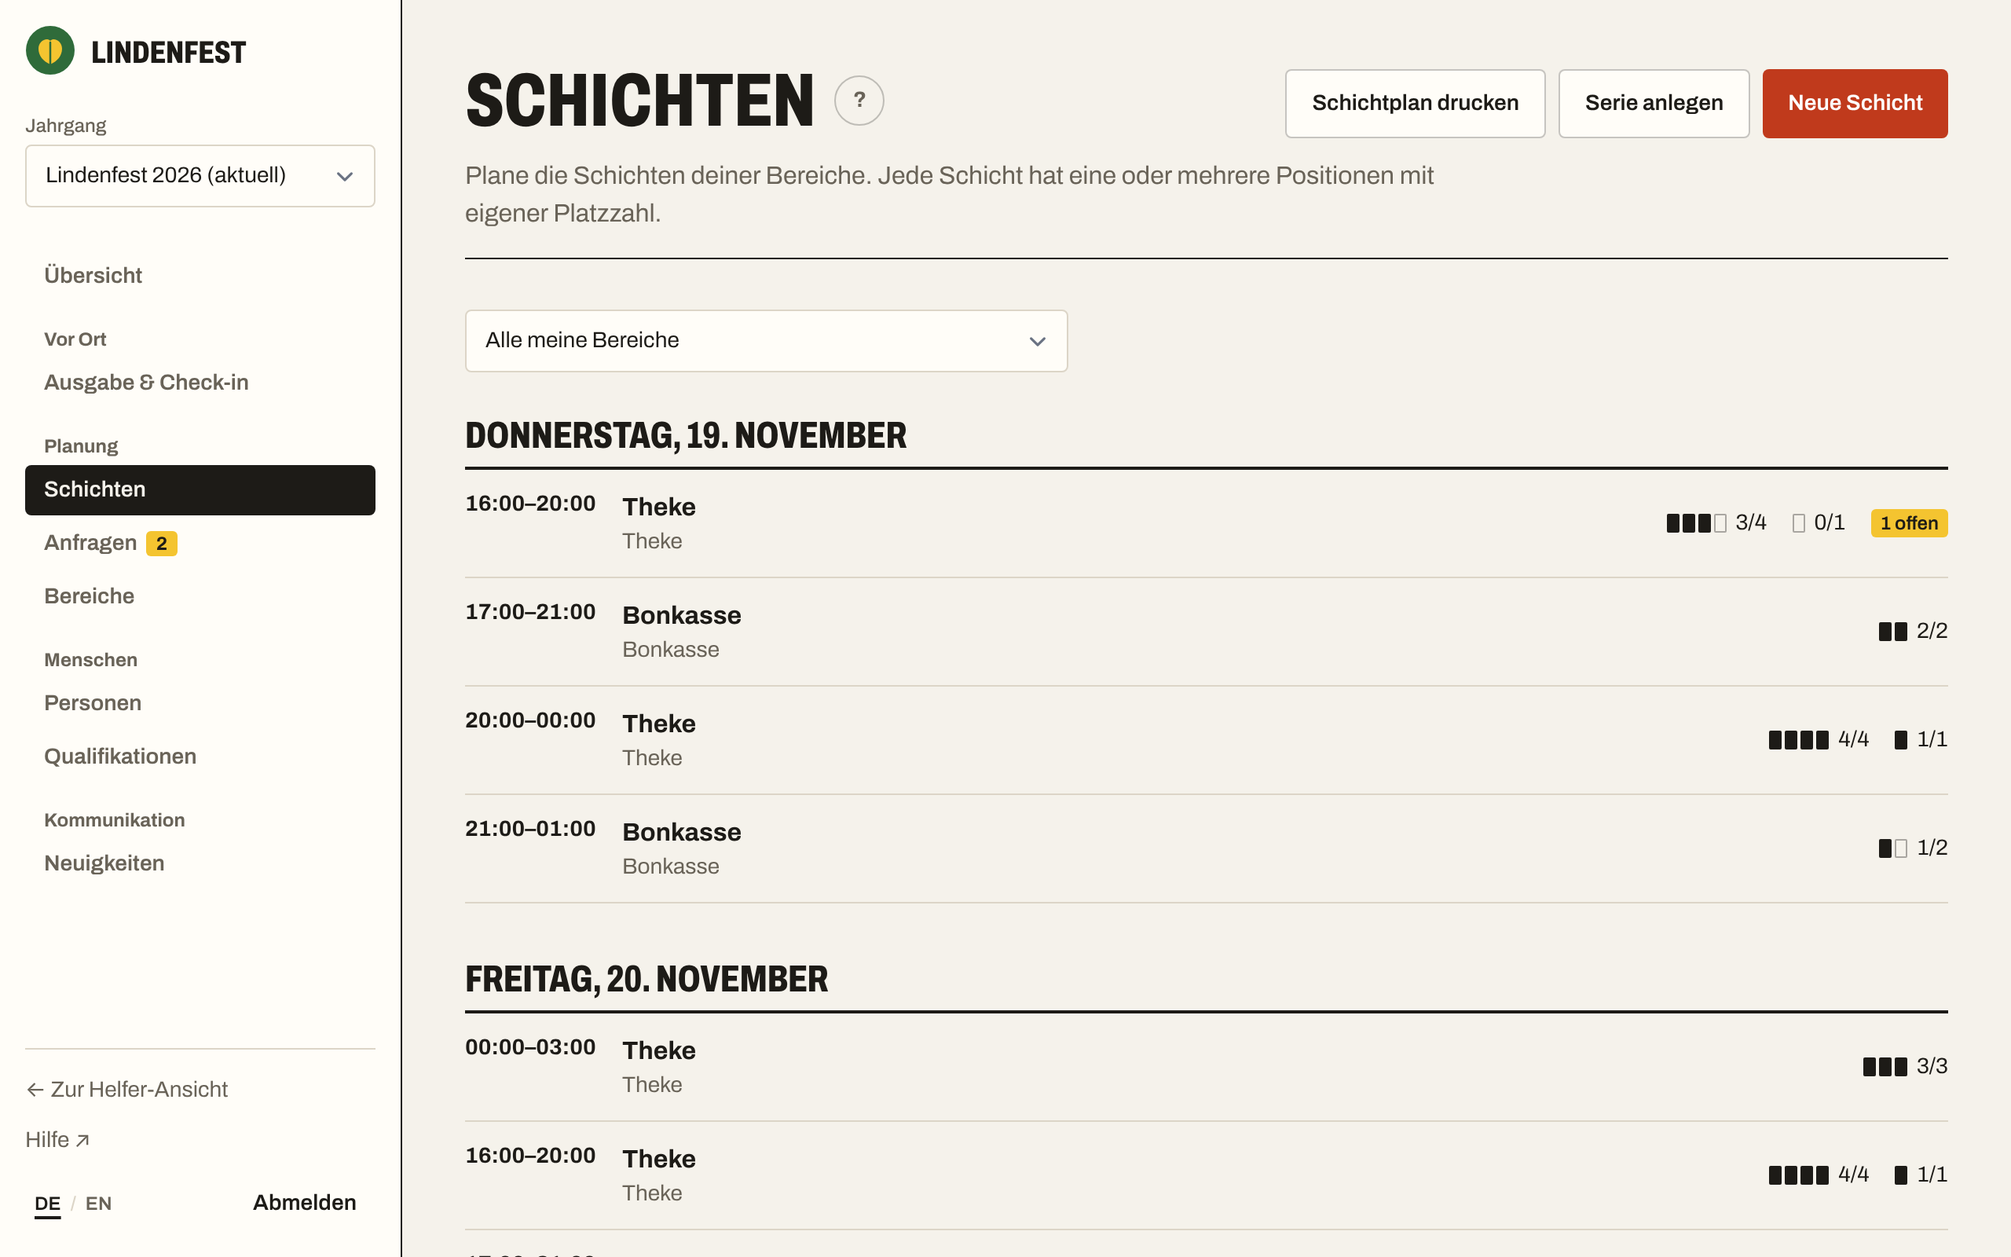
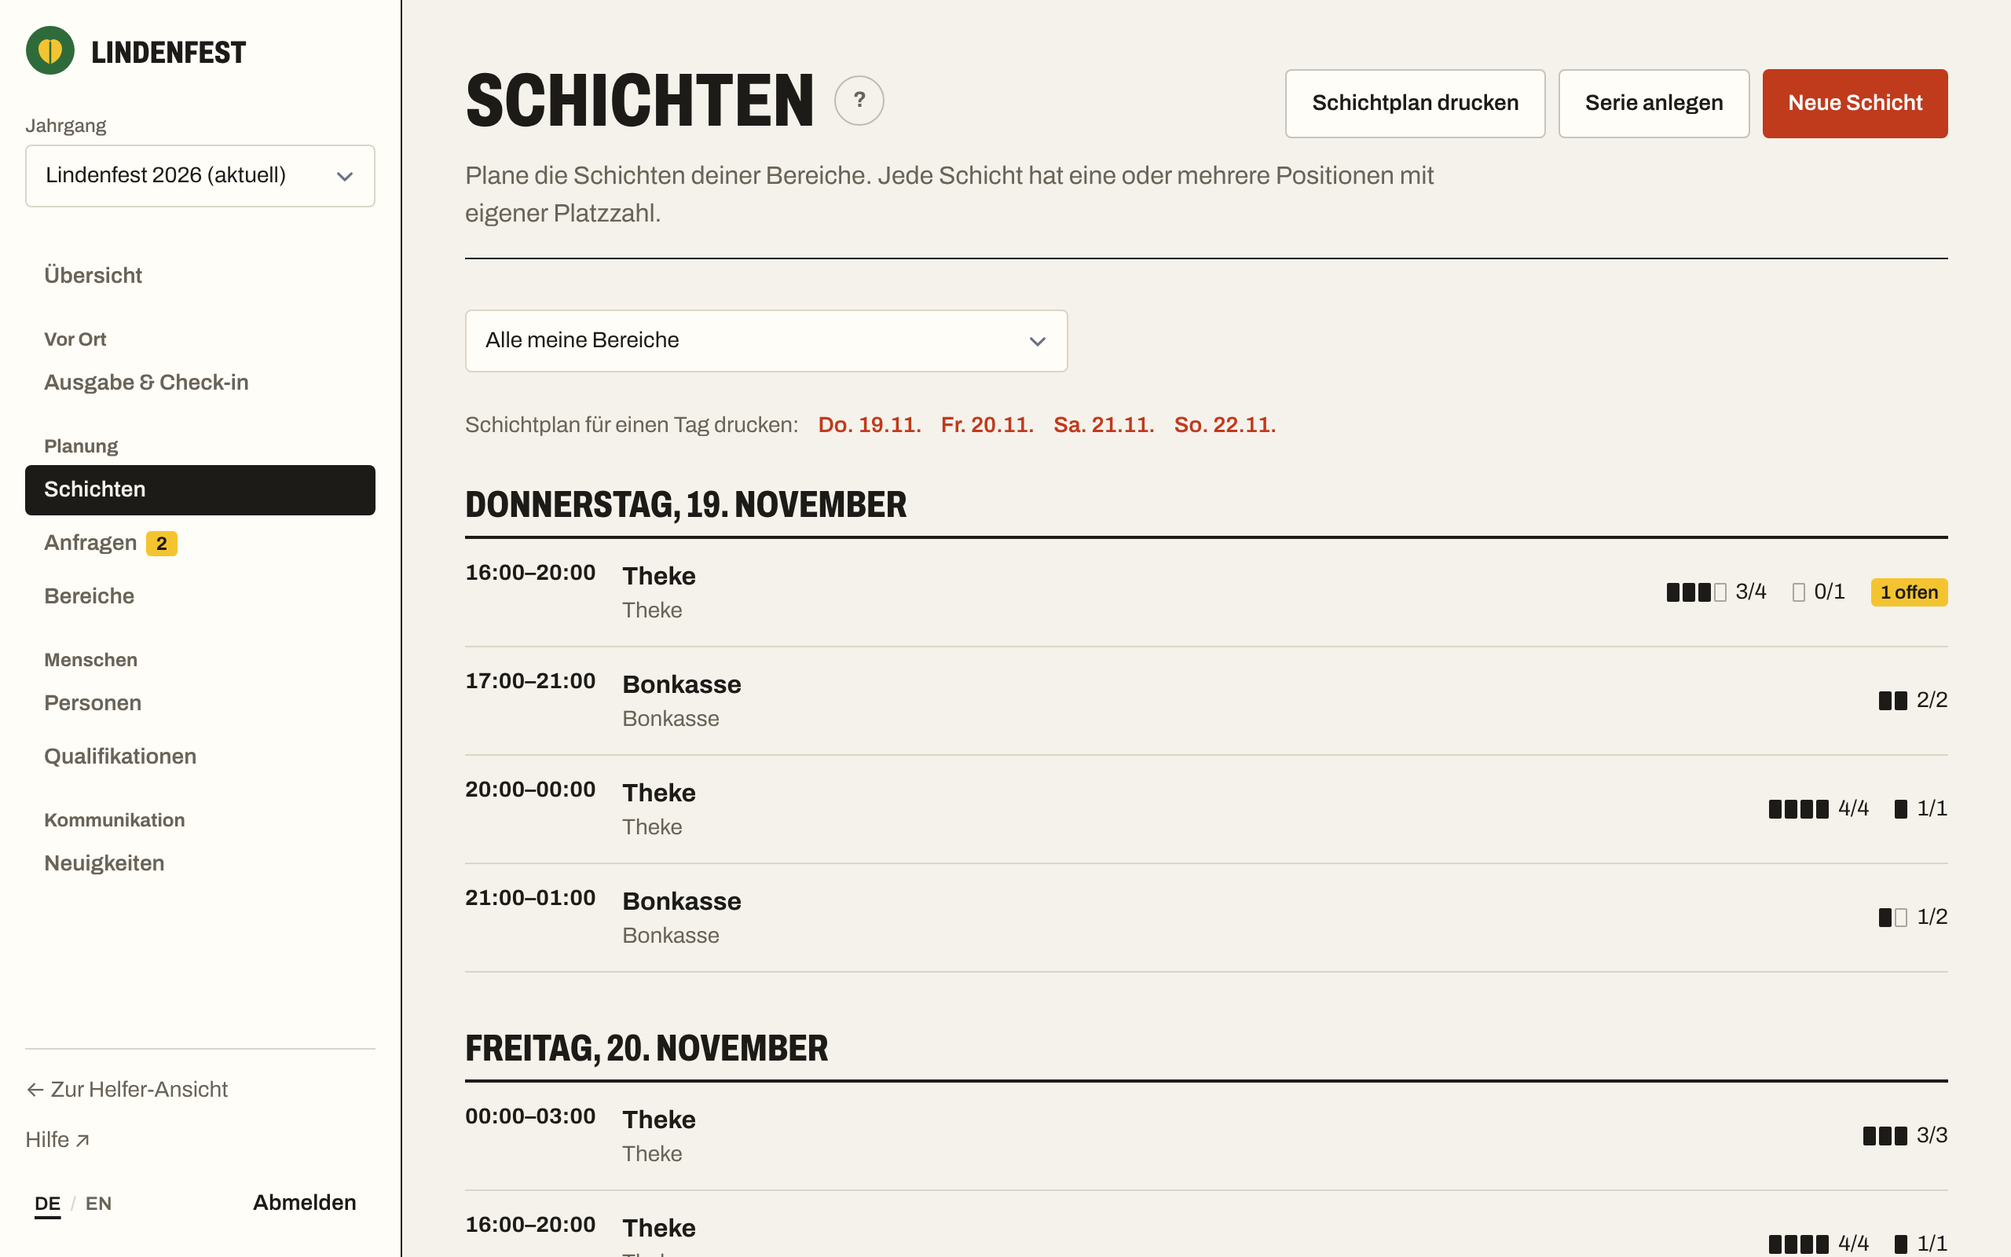
Screenshots in the help pages
Regenerated with the fixed app and embedded next to the "At a glance" box of the
pages they illustrate; phone shots stay phone-sized. Quoted UI messages in the
lead pages show example numbers instead of raw placeholders.

Claude-Session: https://claude.ai/code/session_011e26nZjEAptTtwDUy64EUt

diff --git a/docs/src/styles/custom.css b/docs/src/styles/custom.css
@@ -48,3 +48,15 @@
 	cursor: pointer;
 	font-weight: 600;
 }
+
+/* Phone screenshots stay phone-sized instead of filling the whole column. */
+.sl-markdown-content img[alt][src*='helper-'] {
+	max-width: min(100%, 320px);
+	border: 1px solid var(--sl-color-gray-5);
+	border-radius: 12px;
+}
+.sl-markdown-content img[alt][src*='lead-'],
+.sl-markdown-content img[alt][src*='admin-'] {
+	border: 1px solid var(--sl-color-gray-5);
+	border-radius: 6px;
+}

diff --git a/docs/src/content/docs/en/leads/dashboard.md b/docs/src/content/docs/en/leads/dashboard.md
@@ -14,6 +14,8 @@ description: What the admin overview shows – staffing, heatmap, understaffed s
 
 :::
 
+![Overview of an area lead](../../../../assets/screenshots/en/lead-dashboard.png)
+
 The numbers always refer to the edition selected at the top, and only to the areas in which your role
 has _View staffing dashboard_ or shift permissions (_Create and edit shifts_, _Add and remove
 volunteers, approve requests_ or _Confirm attendance (check-in)_). Without one of these permissions
@@ -26,8 +28,8 @@ may not open the shifts themselves.
 
 ### Filled
 
-The big percentage: places taken divided by all places of all shifts in your areas, with “{booked} of
-{capacity} places” below. Bookings and places reserved for groups count; open requests do not.
+The big percentage: places taken divided by all places of all shifts in your areas, with “45 of
+54 places” below. Bookings and places reserved for groups count; open requests do not.
 
 ### Helpers signed up
 
@@ -37,15 +39,15 @@ How many different people are signed up for your shifts, and below it in how man
 
 Only appears when something is waiting for you:
 
-- _{number} requests_ – booking requests, handovers and swaps. The link leads to
+- _2 requests_ – booking requests, handovers and swaps. The link leads to
   [_Requests_](/wichtel/en/leads/requests/).
-- _{number} proofs_ – qualification proofs to review, only if you may review them. The link leads to
+- _2 proofs_ – qualification proofs to review, only if you may review them. The link leads to
   [_Qualifications_](/wichtel/en/leads/qualifications/).
 
 ### Today
 
-All shifts of your areas that start today, with the attendance so far: “{x} of {y} here” and, if
-any, “{n} no-show”. A click opens the shift, where you tick people off (see
+All shifts of your areas that start today, with the attendance so far: “3 of 4 here” and, if
+any, “1 no-show”. A click opens the shift, where you tick people off (see
 [Staffing](/wichtel/en/leads/staffing/)).
 
 ### Staffing by area and day
@@ -60,7 +62,7 @@ all shifts of that area starting on that day.
 ### Understaffed next
 
 The next ten shifts that have not started yet and have free places, soonest first – with day, time,
-area and “{n} free”. If an [urgent call](/wichtel/en/leads/urgent/) is running for a position, it
+area and “2 free”. If an [urgent call](/wichtel/en/leads/urgent/) is running for a position, it
 shows _Urgent_. If all upcoming shifts are full, it says “All upcoming shifts are full.”
 
 ## Common questions

diff --git a/docs/src/content/docs/leads/dashboard.md b/docs/src/content/docs/leads/dashboard.md
@@ -14,6 +14,8 @@ description: Was die Übersicht der Verwaltung zeigt – Besetzung, Heatmap, unt
 
 :::
 
+![Übersicht einer Bereichsleitung](../../../assets/screenshots/de/lead-dashboard.png)
+
 Die Zahlen beziehen sich immer auf den Jahrgang, der oben gewählt ist, und nur auf die Bereiche, in
 denen deine Rolle _Besetzungs-Dashboard sehen_ oder Schichtrechte hat (_Schichten anlegen und
 bearbeiten_, _Helfende ein- und austragen, Anfragen bestätigen_ oder _Anwesenheit bestätigen
@@ -27,7 +29,7 @@ du die Schichten selbst nicht öffnen darfst.
 ### Besetzt
 
 Die große Prozentzahl: vergebene Plätze geteilt durch alle Plätze aller Schichten in deinen
-Bereichen, darunter „{gebucht} von {Plätzen} Plätzen“. Gezählt werden Buchungen und für Gruppen
+Bereichen, darunter „45 von 54 Plätzen“. Gezählt werden Buchungen und für Gruppen
 reservierte Plätze, keine offenen Anfragen.
 
 ### Helfende eingetragen
@@ -39,15 +41,15 @@ Schichten.
 
 Erscheint nur, wenn etwas auf dich wartet:
 
-- _{Anzahl} Anfragen_ – Buchungsanfragen, Übergaben und Tausch. Der Link führt zu
+- _2 Anfragen_ – Buchungsanfragen, Übergaben und Tausch. Der Link führt zu
   [_Anfragen_](/wichtel/leads/requests/).
-- _{Anzahl} Nachweise_ – Qualifikationsnachweise zum Prüfen, nur wenn du sie prüfen darfst. Der Link
+- _2 Nachweise_ – Qualifikationsnachweise zum Prüfen, nur wenn du sie prüfen darfst. Der Link
   führt zu [_Qualifikationen_](/wichtel/leads/qualifications/).
 
 ### Heute
 
-Alle Schichten deiner Bereiche, die heute beginnen, mit dem Stand der Anwesenheit: „{x} von {y} da“
-und gegebenenfalls „{n} nicht erschienen“. Ein Klick öffnet die Schicht, dort hakst du ab (siehe
+Alle Schichten deiner Bereiche, die heute beginnen, mit dem Stand der Anwesenheit: „3 von 4 da“
+und gegebenenfalls „1 nicht erschienen“. Ein Klick öffnet die Schicht, dort hakst du ab (siehe
 [Besetzung](/wichtel/leads/staffing/)).
 
 ### Besetzung nach Bereich und Tag
@@ -62,7 +64,7 @@ Plätze“ für alle Schichten dieses Bereichs, die an dem Tag beginnen.
 ### Als Nächstes unterbesetzt
 
 Die nächsten zehn Schichten, die noch nicht begonnen haben und freie Plätze haben, die früheste
-zuerst – mit Tag, Uhrzeit, Bereich und „{n} frei“. Läuft für eine Position ein
+zuerst – mit Tag, Uhrzeit, Bereich und „2 frei“. Läuft für eine Position ein
 [Dringend-Aufruf](/wichtel/leads/urgent/), steht _Dringend_ dabei. Sind alle kommenden Schichten
 voll, steht dort „Alle kommenden Schichten sind voll.“
 

diff --git a/docs/src/content/docs/leads/news.md b/docs/src/content/docs/leads/news.md
@@ -14,6 +14,8 @@ description: Beiträge für deinen Bereich, eine Schicht oder die Crew schreiben
 
 :::
 
+![Neuigkeit bearbeiten](../../../assets/screenshots/de/lead-news-editor.png)
+
 Neuigkeiten erscheinen im Newsfeed der Helfenden (_News_ in der App, die neuesten auch auf der
 Startseite) – aber nur bei denen, für die sie bestimmt sind.
 
@@ -43,8 +45,8 @@ später eine Schicht im Bereich bucht, sieht einen Bereichs-Beitrag dann auch.
    und bekommt dann diese Fassung, sonst die deutsche.
 5. Optional _Oben anheften_ und _Angeheftet bis einschließlich_ (siehe unten).
 6. Optional _Auch per E-Mail senden_.
-7. Tippe auf _Vorschau_. Du siehst „So sehen es die Helfenden“ und „Erreicht {Anzahl} Personen“.
-8. Passt alles, tippe auf _Veröffentlichen_ und bestätige („Beitrag veröffentlichen und an {Anzahl}
+7. Tippe auf _Vorschau_. Du siehst „So sehen es die Helfenden“ und „Erreicht 37 Personen“.
+8. Passt alles, tippe auf _Veröffentlichen_ und bestätige („Beitrag veröffentlichen und an 37
    Personen mailen?“, wenn die E-Mail mitgeht).
 
 ## Per E-Mail
@@ -52,7 +54,7 @@ später eine Schicht im Bereich bucht, sieht einen Bereichs-Beitrag dann auch.
 Mit _Auch per E-Mail senden_ bekommen alle, die der Beitrag **im Moment des Veröffentlichens**
 betrifft, ihn zusätzlich als E-Mail – in ihrer Sprache, mit einem Link zum Beitrag. Wer später dazukommt,
 sieht ihn nur im Newsfeed. Konten, deren E-Mail-Adresse noch nicht bestätigt ist, bekommen keine
-Mail (und zählen bei der Anzahl nicht mit). In der Liste steht danach „per E-Mail an {Anzahl}“.
+Mail (und zählen bei der Anzahl nicht mit). In der Liste steht danach „per E-Mail an 37“.
 
 ## Anheften
 

diff --git a/docs/src/content/docs/leads/series.md b/docs/src/content/docs/leads/series.md
@@ -9,10 +9,12 @@ description: Viele gleichartige Schichten auf einmal anlegen – Tage mal Zeitfe
   _Serie anlegen_.
 - Für **jeden gewählten Tag und jedes Zeitfenster** entsteht eine eigene Schicht mit denselben
   Angaben und Positionen.
-- **Vor dem Anlegen** zeigt die Seite: „Es werden {Anzahl} Schichten angelegt.“
+- **Vor dem Anlegen** zeigt die Seite: „Es werden 3 Schichten angelegt.“
 - **Danach** ist jede Schicht eigenständig: Du bearbeitest oder löschst sie einzeln.
 
 :::
+
+![Serie anlegen](../../../assets/screenshots/de/lead-series.png)
 
 ## Schritt für Schritt
 
@@ -24,12 +26,12 @@ description: Viele gleichartige Schichten auf einmal anlegen – Tage mal Zeitfe
    - _Zeitfenster_ – Beginn und Ende, anfangs 10:00–14:00. Mit _+ Zeitfenster hinzufügen_ kommt ein
      weiteres dazu (es beginnt, wo das letzte endet). Liegt das Ende vor dem Beginn, endet die
      Schicht am Folgetag, z. B. 22:00–02:00.
-4. Lies die Zahl darunter: „Es werden {Anzahl} Schichten angelegt.“ Sie ändert sich sofort, wenn du
+4. Lies die Zahl darunter: „Es werden 3 Schichten angelegt.“ Sie ändert sich sofort, wenn du
    Tage oder Zeitfenster änderst.
 5. Leg die [Positionen](/wichtel/leads/positions/) fest – sie gelten für jede Schicht der Serie.
 6. Fülle Ort, Ansprechperson, Beschreibung, _Sichtbar für_ und _Frist zum Austragen (Stunden)_ aus
    wie bei einer [einzelnen Schicht](/wichtel/leads/shifts/).
-7. Tippe auf _Serie anlegen_. Du landest in der Liste _Schichten_ mit der Meldung „{Anzahl} Schichten
+7. Tippe auf _Serie anlegen_. Du landest in der Liste _Schichten_ mit der Meldung „3 Schichten
    angelegt.“
 
 ### Beispiel

diff --git a/docs/src/content/docs/leads/urgent.md b/docs/src/content/docs/leads/urgent.md
@@ -15,6 +15,8 @@ description: Kurzfristig Leute finden – wer die E-Mail bekommt, wie Bonuspunkt
 
 :::
 
+![Schicht mit laufendem Dringend-Aufruf](../../../assets/screenshots/de/admin-urgent.png)
+
 ## Schritt für Schritt
 
 1. Öffne die Schicht (z. B. aus _Als Nächstes unterbesetzt_ auf der [Übersicht](/wichtel/leads/dashboard/)).
@@ -23,8 +25,8 @@ description: Kurzfristig Leute finden – wer die E-Mail bekommt, wie Bonuspunkt
 3. Optional:
    - _Bonuspunkte_ (0 bis 100) – „Für alle, die sich jetzt eintragen. 0 = kein Bonus.“
    - _Kurze Nachricht (optional)_ – bis 300 Zeichen, steht in der E-Mail.
-4. Tippe auf _Aufruf senden_. Du siehst „Aufruf an {Anzahl} Personen gesendet.“
-5. Bei der Position steht jetzt „Dringend seit {Uhrzeit}“ (mit „+{Bonus}“, falls du Bonuspunkte
+4. Tippe auf _Aufruf senden_. Du siehst „Aufruf an 23 Personen gesendet.“
+5. Bei der Position steht jetzt „Dringend seit 14:05“ (mit „+2“, falls du Bonuspunkte
    vergeben hast).
 
 ## Wer die E-Mail bekommt
@@ -42,7 +44,7 @@ Bonus und enthält einen Direktlink zur Schicht. Sie geht in der Sprache der jew
 ## Was Helfende sehen
 
 Solange der Aufruf läuft und Plätze frei sind, ist die Position in der Schichtliste als _Dringend_
-markiert, mit „+{Bonus} Bonuspunkte“. Auf ihrer Startseite erscheint die Schicht unter _Dringend
+markiert, mit „+2 Bonuspunkte“. Auf ihrer Startseite erscheint die Schicht unter _Dringend
 gesucht_. Für eine Position mit laufendem Aufruf können sich alle eintragen, auch wenn ihre
 Buchungswelle noch nicht offen ist.
 

diff --git a/docs/src/content/docs/en/leads/series.md b/docs/src/content/docs/en/leads/series.md
@@ -9,10 +9,12 @@ description: Create many similar shifts at once – days times time slots – an
   _Create series_.
 - **Every selected day and every time slot** becomes a shift of its own with the same details and
   positions.
-- **Before creating**, the page shows: “{number} shifts will be created.”
+- **Before creating**, the page shows: “3 shifts will be created.”
 - **Afterwards** every shift stands on its own: you edit or delete them one by one.
 
 :::
+
+![Creating a series](../../../../assets/screenshots/en/lead-series.png)
 
 ## Step by step
 
@@ -24,12 +26,12 @@ description: Create many similar shifts at once – days times time slots – an
    - _Time slots_ – start and end, initially 10:00–14:00. _+ Add time slot_ adds another one (it
      starts where the last one ends). If the end is before the start, the shift ends the next day,
      e.g. 22:00–02:00.
-4. Read the number below: “{number} shifts will be created.” It changes immediately when you change
+4. Read the number below: “3 shifts will be created.” It changes immediately when you change
    days or time slots.
 5. Set the [positions](/wichtel/en/leads/positions/) – they apply to every shift of the series.
 6. Fill in location, contact, description, _Visible to_ and _Cancellation deadline (hours)_ as for a
    [single shift](/wichtel/en/leads/shifts/).
-7. Tap _Create series_. You land in the _Shifts_ list with the message “{number} shifts created.”
+7. Tap _Create series_. You land in the _Shifts_ list with the message “3 shifts created.”
 
 ### Example
 

diff --git a/docs/src/content/docs/en/leads/news.md b/docs/src/content/docs/en/leads/news.md
@@ -13,6 +13,8 @@ description: Write posts for your area, a shift or the crew, send them by e-mail
 
 :::
 
+![Editing a news post](../../../../assets/screenshots/en/lead-news-editor.png)
+
 News appears in the volunteers' news feed (_News_ in the app, the latest also on the home page) – but
 only for the people it is meant for.
 
@@ -41,8 +43,8 @@ in the area later also sees an area post then.
    and receive this version, everyone else the German one.
 5. Optionally _Pin to the top_ and _Pinned up to and including_ (see below).
 6. Optionally _Also send by e-mail_.
-7. Tap _Preview_. You see “What volunteers will see” and “Reaches {number} people”.
-8. If everything is fine, tap _Publish_ and confirm (“Publish this post and e-mail it to {number}
+7. Tap _Preview_. You see “What volunteers will see” and “Reaches 37 people”.
+8. If everything is fine, tap _Publish_ and confirm (“Publish this post and e-mail it to 37
    people?” if the e-mail goes along).
 
 ## By e-mail
@@ -50,7 +52,7 @@ in the area later also sees an area post then.
 With _Also send by e-mail_, everyone the post concerns **at the moment of publishing** also gets it as
 an e-mail – in their language, with a link to the post. Anyone who joins later only sees it in the
 news feed. Accounts whose e-mail address is not confirmed yet get no e-mail (and are not counted).
-Afterwards the list shows “e-mailed to {number}”.
+Afterwards the list shows “e-mailed to 37”.
 
 ## Pinning
 

diff --git a/docs/src/content/docs/en/leads/urgent.md b/docs/src/content/docs/en/leads/urgent.md
@@ -14,6 +14,8 @@ description: Find people at short notice – who gets the e-mail, how bonus poin
 
 :::
 
+![Shift with a running urgent call](../../../../assets/screenshots/en/admin-urgent.png)
+
 ## Step by step
 
 1. Open the shift (e.g. from _Understaffed next_ on the [overview](/wichtel/en/leads/dashboard/)).
@@ -22,8 +24,8 @@ description: Find people at short notice – who gets the e-mail, how bonus poin
 3. Optionally:
    - _Bonus points_ (0 to 100) – “For everyone who signs up now. 0 = no bonus.”
    - _Short message (optional)_ – up to 300 characters, included in the e-mail.
-4. Tap _Send call_. You see “Call sent to {number} people.”
-5. The position now shows “Urgent since {time}” (with “+{bonus}” if you gave bonus points).
+4. Tap _Send call_. You see “Call sent to 23 people.”
+5. The position now shows “Urgent since 14:05” (with “+2” if you gave bonus points).
 
 ## Who gets the e-mail
 
@@ -40,7 +42,7 @@ the bonus, and contains a direct link to the shift. It goes out in each person's
 ## What volunteers see
 
 While the call is running and places are free, the position is marked _Urgent_ in the shift list,
-with “+{bonus} bonus points”. On their home page the shift appears under _Urgently needed_. Everyone
+with “+2 bonus points”. On their home page the shift appears under _Urgently needed_. Everyone
 can sign up for a position with a running call, even if their booking wave is not open yet.
 
 ## Bonus points

diff --git a/docs/src/content/docs/leads/staffing.md b/docs/src/content/docs/leads/staffing.md
@@ -13,6 +13,8 @@ description: Personen in Schichten eintragen und austragen, Regeln übergehen un
 
 :::
 
+![Besetzung einer Schicht](../../../assets/screenshots/de/lead-shift-editor.png)
+
 Alles passiert auf der Seite einer Schicht im Abschnitt _Besetzung_: _Schichten_ → Schicht antippen.
 Für jede Position siehst du, wer eingetragen ist, und „gebucht/Plätze“.
 
@@ -61,7 +63,7 @@ Ein eigener Begründungstext wird dabei nicht abgefragt.
 ## Jemanden austragen
 
 1. Tippe bei der Person auf _Austragen_.
-2. Bestätige die Frage „{Name} aus der Schicht austragen?“.
+2. Bestätige die Frage „Lena Vogt aus der Schicht austragen?“.
 
 Wer eingetragen war, angefragt hatte oder einen reservierten Platz hatte, bekommt die E-Mail
 „Ausgetragen: …“. Wird dadurch ein Platz frei, rückt die nächste Person von der Warteliste

diff --git a/docs/src/content/docs/leads/desk.md b/docs/src/content/docs/leads/desk.md
@@ -14,6 +14,8 @@ description: An der Helferanmeldung QR-Codes scannen, Schichten von heute einche
 
 :::
 
+![Ausgabe & Check-in für eine Person](../../../assets/screenshots/de/admin-desk.png)
+
 Den Menüpunkt _Ausgabe & Check-in_ siehst du, wenn deine Rolle _Goodies ausgeben_ oder _Anwesenheit
 bestätigen (Check-in)_ hat oder _Punkte manuell anpassen_ für den ganzen Jahrgang. Was du auf der
 Seite einer Person tun kannst, hängt davon ab, welches dieser Rechte du hast.
@@ -43,7 +45,7 @@ Punkten), höchstens 20 Treffer.
 
 ## Die Seite einer Person
 
-Oben stehen Name und _bestätigte Punkte_ (dazu „+{Anzahl} vorgemerkt aus gebuchten Schichten“), mit
+Oben stehen Name und _bestätigte Punkte_ (dazu „+3 vorgemerkt aus gebuchten Schichten“), mit
 Kontaktrecht auch die Handynummer.
 
 ### Schichten heute

diff --git a/docs/src/content/docs/en/leads/staffing.md b/docs/src/content/docs/en/leads/staffing.md
@@ -13,6 +13,8 @@ description: Add people to shifts and remove them, override rules and record att
 
 :::
 
+![Staffing of a shift](../../../../assets/screenshots/en/lead-shift-editor.png)
+
 Everything happens on a shift's page in the _Staffing_ section: _Shifts_ → tap the shift. For each
 position you see who is signed up and “booked/places”.
 
@@ -59,7 +61,7 @@ overridden. No separate reason text is asked for.
 ## Removing someone
 
 1. Tap _Remove_ at the person.
-2. Confirm the question “Remove {name} from this shift?”.
+2. Confirm the question “Remove Lena Vogt from this shift?”.
 
 Anyone who was signed up, had requested or held a reserved place gets the e-mail “Removed: …”. If
 this frees a place, the next person on the waiting list moves up automatically. As a lead you can
